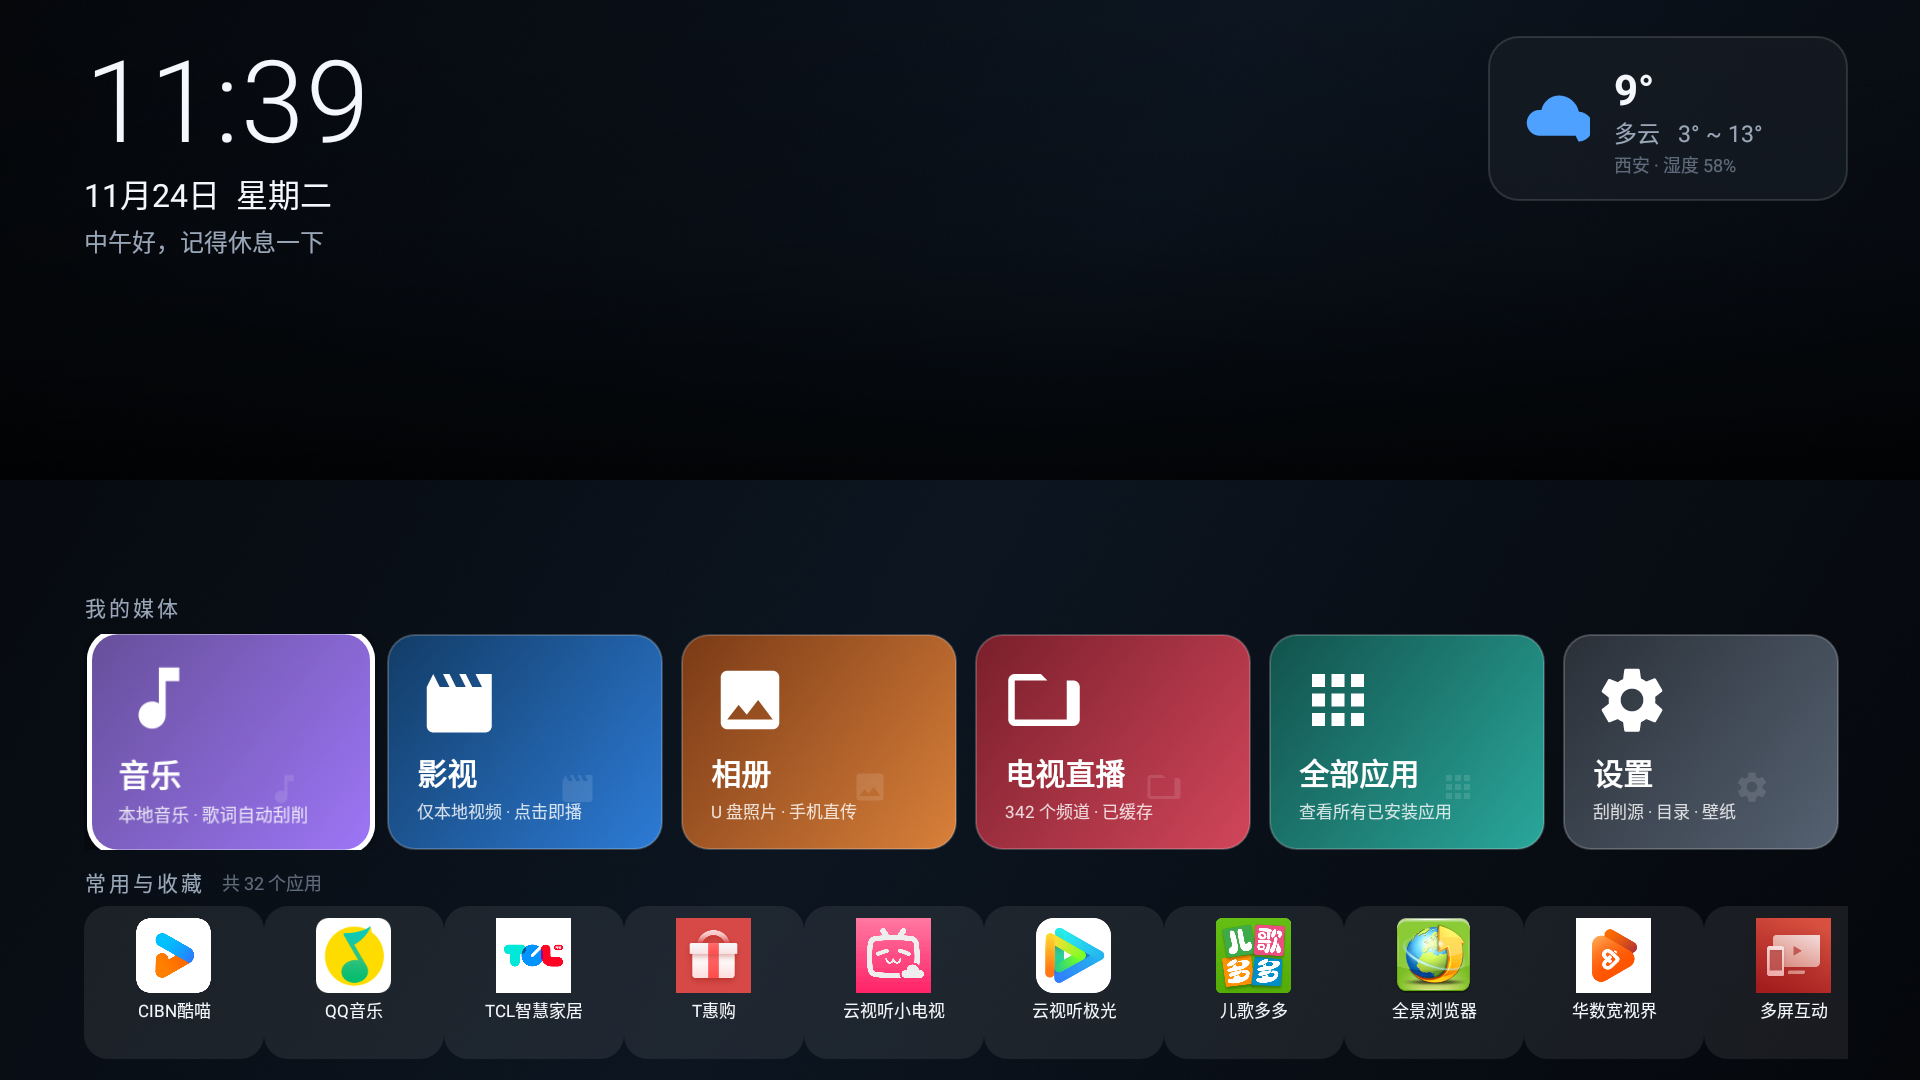
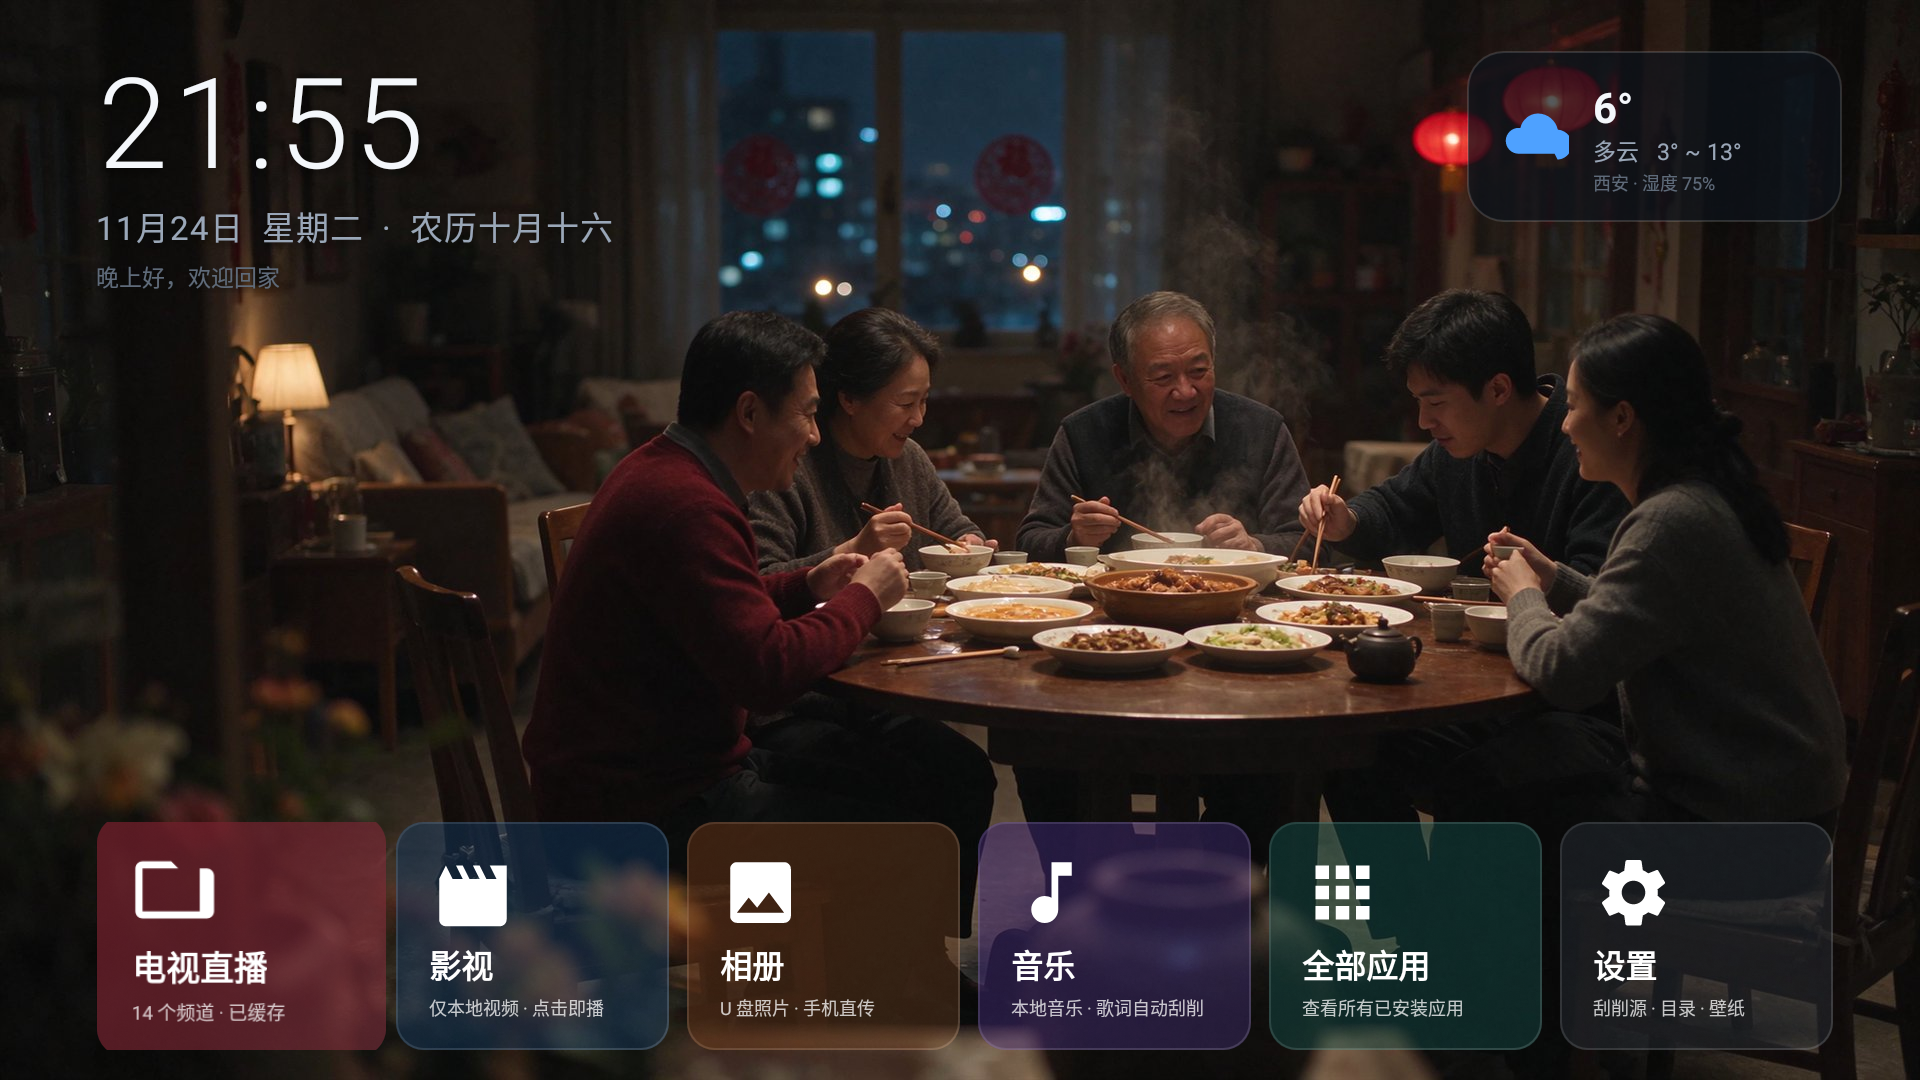
补提交 1.3 首页截图内容与 README / .gitignore 引用
上一提交只完成了重命名，实际图片内容与引用同步在此提交

diff --git a/README.md b/README.md
@@ -4,7 +4,7 @@
 
 > 布局参考 [pengchujin/aerial-tv](https://github.com/pengchujin/aerial-tv) 的卡片式大屏风格：深色渐变、时钟 + 天气、单个功能卡行，背景支持视频或图片（默认内置「阖家团圆」图）。当前首页只有 6 张功能卡，**不再有「常用与收藏」网站/应用横排**。
 
-![TCL 电视实机桌面（1.2 版）](docs/screenshots/tv-home-1.2.png)
+![智慧家庭TV 首页](docs/screenshots/tv-home-1.3.png)
 
 ## 功能一览
 
